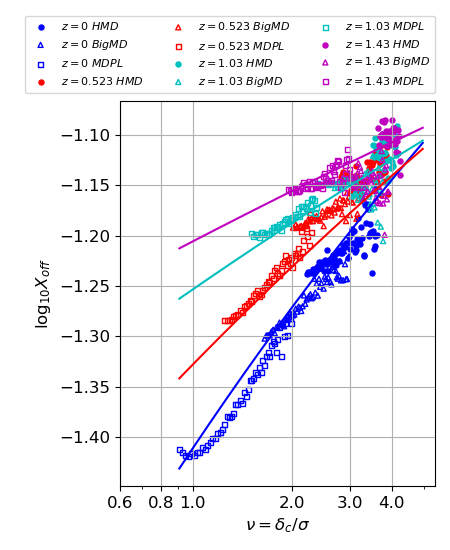
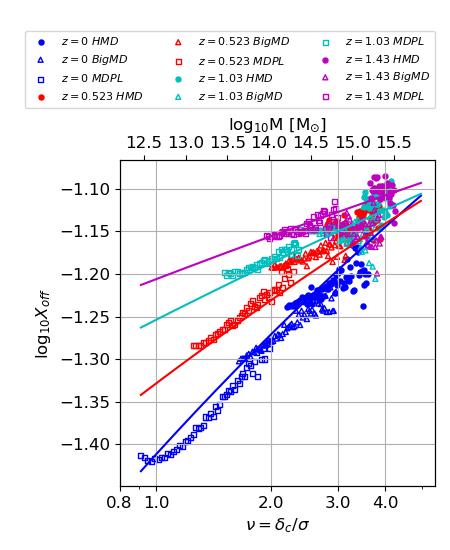
adding examples of mass-sigma conversions

diff --git a/mass_sigma.py b/mass_sigma.py
@@ -1,0 +1,106 @@
+from astropy.table import Table, Column
+#from astropy_healpix import healpy
+import sys
+import os, glob
+import time
+from astropy.cosmology import FlatLambdaCDM
+import matplotlib.pyplot as plt
+from matplotlib.ticker import ScalarFormatter
+import astropy.units as u
+import astropy.constants as cc
+import astropy.io.fits as fits
+import scipy
+from scipy.stats import chi2
+from scipy.special import erf
+from scipy.stats import norm
+from scipy.interpolate import interp2d
+from scipy.interpolate import interp1d
+from scipy.stats import scoreatpercentile
+import h5py
+import numpy as np
+from colossus.cosmology import cosmology
+from colossus.lss import mass_function as mf
+from colossus.lss import peaks
+from sklearn import mixture
+from scipy import integrate
+from mpl_toolkits.mplot3d import Axes3D
+from matplotlib import cm
+from scipy.optimize import curve_fit
+import ultranest
+from ultranest.plot import cornerplot
+import corner
+
+
+cosmo = cosmology.setCosmology('multidark-planck')  
+
+peak_bins = np.arange(0.7,5.,0.02)
+peak_array = (peak_bins[:-1]+peak_bins[1:])/2.
+
+h=cosmo.Hz(z=0)/100
+dc0 = peaks.collapseOverdensity(z = 0)
+
+sigma = dc0/peak_array
+
+log10_sigma = np.log10(1/sigma)
+
+def Mass_sigma(x):
+    r=cosmo.sigma(x,z=0,inverse=True)
+    M=peaks.lagrangianM(r)/h
+    return np.log10(M)
+
+def Mass_peak(x):
+    r=cosmo.sigma(dc0/x,z=0,inverse=True)
+    M=peaks.lagrangianM(r)/h
+    return np.log10(M)
+
+def Mass_log10sigma(x):
+    r=cosmo.sigma(1/10**x,z=0,inverse=True)
+    M=peaks.lagrangianM(r)/h
+    return np.log10(M)
+
+outfig = os.path.join('figures','Mass_sigma_relations.png')
+fig = plt.figure(figsize=(18,6))
+gs = fig.add_gridspec(1,3)
+ax1 = fig.add_subplot(gs[0,0])
+ax2 = fig.add_subplot(gs[0,1])
+ax3 = fig.add_subplot(gs[0,2])
+
+ax1.plot(sigma, Mass_sigma(sigma), lw=5)
+ax2.plot(peak_array, Mass_peak(peak_array), lw=5)
+ax3.plot(log10_sigma, Mass_log10sigma(log10_sigma), lw=5)
+
+ax1.grid(True)
+ax2.grid(True)
+ax3.grid(True)
+
+#ax1.set_xticks(np.array([0.5,0.75,1.0,1.25,1.5,1.75,2.0,2.5]))
+#ax2.set_xticks(np.array([1.0,1.5,2.0,2.5,3.0,3.5,4.0,4.5,5.0]))
+#ax3.set_xticks(np.array([-0.4,-0.35,-0.3,-0.25,-0.2,-0.15,-0.1,-0.05,0,0.05,0.1,0.15,0.2,0.25,0.3,0.35,0.4,0.45]))
+
+ax1.set_yticks(np.array([12.0,12.5,13.0,13.5,14.0,14.5,15.0,15.5,16.0]))
+ax2.set_yticks(np.array([12.0,12.5,13.0,13.5,14.0,14.5,15.0,15.5,16.0]))
+ax3.set_yticks(np.array([12.0,12.5,13.0,13.5,14.0,14.5,15.0,15.5,16.0]))
+
+ax2.set_xscale('log')
+ax2.xaxis.set_major_formatter(ScalarFormatter())
+ax2.ticklabel_format(useOffset=False, style='plain')
+ax2.set_xticks([0.8,1,2,3,4])
+
+ax1.tick_params(labelsize=20)
+ax2.tick_params(labelsize=20)
+ax3.tick_params(labelsize=20)
+
+ax1.set_xlabel(r'$\sigma$', fontsize=20)
+ax2.set_xlabel(r'$\nu = dc/\sigma$', fontsize=20)
+ax3.set_xlabel(r'$\log_{10}\sigma^{-1}$', fontsize=20)
+
+ax1.set_ylabel(r'Mass [M$_{\odot}$]', fontsize=20)
+ax2.set_ylabel(r'Mass [M$_{\odot}$]', fontsize=20)
+ax3.set_ylabel(r'Mass [M$_{\odot}$]', fontsize=20)
+
+plt.tight_layout()
+fig.savefig(outfig, overwrite=True)
+
+print('done!')
+
+

diff --git a/Rvir/xoff/xoff_sigma_relation_Rvir.py b/Rvir/xoff/xoff_sigma_relation_Rvir.py
@@ -321,8 +321,9 @@ t1.write(outt1,overwrite=True)
 
 
 h=cosmo.Hz(z=0)/100
-def Mass_sigma(x):
-    r=cosmo.sigma(1.68/x,z=0,inverse=True)
+dc0 = peaks.collapseOverdensity(z = 0)
+def Mass_peak(x):
+    r=cosmo.sigma(dc0/x,z=0,inverse=True)
     M=peaks.lagrangianM(r)/h
     return np.log10(M)
 
@@ -333,7 +334,7 @@ def Xoff_log(x):
 
 ax1.set_xscale('log')
 #ax1.set_yscale('log')
-ax1.set_xticks([0.6,0.8,1,2,3,4])
+ax1.set_xticks([0.8,1,2,3,4])
 #ax1.set_yticks([1.0,1.2,1.4,1.6,1.8,2.0,2.2,2.4])
 #ax1.set_ylim(1e-3,0.7)
 
@@ -341,9 +342,14 @@ ax1.xaxis.set_major_formatter(ScalarFormatter())
 ax1.yaxis.set_major_formatter(ScalarFormatter())
 ax1.ticklabel_format(axis='both', style='plain')
 
-#ax1_sec = ax1.twiny()
-#xmin,xmax=ax1.get_xlim()
-#ax1_sec.set_xlim((Mass_sigma(xmin),Mass_sigma(xmax)))
+ax1_sec = ax1.twiny()
+new_tick_locations = np.array([12.5,13.0,13.5,14.0, 14.5, 15.0, 15.5])
+xmin,xmax=ax1.get_xlim()
+ax1_sec.set_xlim(Mass_peak(xmin),Mass_peak(xmax))
+print(xmin,xmax)
+print(Mass_peak(xmin),Mass_peak(xmax))
+#ax1_sec.set_xscale('log')
+ax1_sec.set_xticks(new_tick_locations)
 #ax1_sec.plot([],[])
 #ax1_sec.set_xlabel(r'$\log_{10}M\ [M_{\odot}]$', fontsize=20, labelpad=15)
 #ax1_sec.set_xscale('log')
@@ -367,11 +373,13 @@ ax1.ticklabel_format(axis='both', style='plain')
 
 #ax1_sec.ticklabel_format(axis='x', style='plain')
 #ax1_sec2.ticklabel_format(axis='y', style='plain')
-ax1.legend(fontsize=8,bbox_to_anchor=(-0.3, 1.02, 1.3, .33), loc='lower left', ncol=3, mode="expand", borderaxespad=0.)
+ax1.legend(fontsize=8,bbox_to_anchor=(-0.3, 1.16, 1.3, .33), loc='lower left', ncol=3, mode="expand", borderaxespad=0.)
 ax1.set_xlabel(r'$\nu = \delta_c/\sigma$', fontsize=12)
 ax1.set_ylabel(r'$\log_{10}X_{off}$', fontsize=12)
+ax1_sec.set_xlabel(r'$\log_{10}$M [M$_{\odot}$]', fontsize=12)
 #ax1_sec2.set_ylabel(r'$X_{off}\ [kpc]$', fontsize=20, labelpad=15)
 ax1.tick_params(labelsize=12)
+ax1_sec.tick_params(labelsize=12)
 #ax1_sec.tick_params(labelsize=15,labelleft=False,labelbottom=False,labelright=False)
 #ax1_sec2.tick_params(labelsize=15, labeltop = False, labelbottom = False, labelleft = False)
 ax1.grid(True)

diff --git a/physical/mean_relations/pdf_conc_fix_mass.py b/physical/mean_relations/pdf_conc_fix_mass.py
@@ -147,7 +147,7 @@ def get_pdf_conc(x):
     pdf = pdf*diff_bins_conc
 
     N = np.histogram(x,bins=edges_conc)[0]
-    err_ = np.sqrt(1/N)*pdf#*3
+    err_ = np.sqrt(1/N)*pdf*2
     err = 1/np.log(10)*err_/pdf
     pdf = np.log10(pdf)
     
@@ -196,10 +196,10 @@ ax1.plot(bins_conc,modified_sch_list([bins_conc,sig_bins[5]],*popt_pdf_conc_list
 ax1.set_ylim(bottom=-2.5,top=-1.2)
 ax1.tick_params(labelsize=12)
 ax1.grid(True)
-ax1.legend(fontsize=10,bbox_to_anchor=(0, 1.1, 2.15, .3), loc='lower left', ncol=3, mode="expand", borderaxespad=0.)
+ax1.legend(fontsize=10,bbox_to_anchor=(0, 1.03, 2.05, .3), loc='lower left', ncol=3, mode="expand", borderaxespad=0.)
 #ax1.set_xlabel(r'$c = R_{vir}/R_s$',fontsize=12)
 ax1.set_ylabel(r'$\log_{10}P(c)+C_0$',fontsize=12)
-ax1.set_title('z = 0.00', fontsize=12)
+ax1.text(9,-1.4,'z = 0.00', fontsize=12, bbox=dict(facecolor='white'))
 
 
 
@@ -267,7 +267,7 @@ ax2.tick_params(labelsize=12)
 ax2.grid(True)
 #ax2.set_xlabel(r'$c = R_{vir}/R_s$',fontsize=12)
 #ax2.set_ylabel(r'$\log_{10}P(c)+C_0$',fontsize=12)
-ax2.set_title('z = 0.52', fontsize=12)
+ax2.text(9,-1.4,'z = 0.52', fontsize=12, bbox=dict(facecolor='white'))
 
 
 ############################### z=1.03 ###############################################
@@ -334,7 +334,7 @@ ax3.tick_params(labelsize=12)
 ax3.grid(True)
 ax3.set_xlabel(r'$c = R_{vir}/R_s$',fontsize=12)
 ax3.set_ylabel(r'$\log_{10}P(c)+C_0$',fontsize=12)
-ax3.set_title('z = 1.03', fontsize=12)
+ax3.text(9,-1.4,'z = 1.03', fontsize=12, bbox=dict(facecolor='white'))
 
 
 
@@ -401,10 +401,13 @@ ax4.set_ylim(bottom=-2.5,top=-1.2)
 ax4.tick_params(labelsize=12)
 ax4.grid(True)
 ax4.set_xlabel(r'$c = R_{vir}/R_s$',fontsize=12)
-ax4.set_title('z = 1.43', fontsize=12)
+ax4.text(9,-1.4,'z = 1.43', fontsize=12, bbox=dict(facecolor='white'))
 
 
-
+plt.setp(ax1.get_xticklabels(), visible=False)
+plt.setp(ax2.get_xticklabels(), visible=False)
+plt.setp(ax2.get_yticklabels(), visible=False)
+plt.setp(ax4.get_yticklabels(), visible=False)
 
 
 plt.tight_layout()

diff --git a/physical/mean_relations/relations_conc.py b/physical/mean_relations/relations_conc.py
@@ -309,21 +309,20 @@ ax0.plot(x_klypin_z15,y_klypin_z15,label=r'Klypin16 z=1.5',ls='dashed')
 ax0.fill_between(x_white,y_white_low,y_white_up,label='Wang19', alpha=0.5)
 
 h=cosmo.Hz(z=0)/100
-def Mass_sigma(x):
-    r=cosmo.sigma(1.68/x,z=0,inverse=True)
+dc0 = peaks.collapseOverdensity(z = 0)
+def Mass_peak(x):
+    r=cosmo.sigma(dc0/x,z=0,inverse=True)
     M=peaks.lagrangianM(r)/h
     return np.log10(M)
 
-def Xoff_log(x):
-    y = 10**x
-    return y/h
 
 ax0.set_ylabel(r'$conc$', fontsize=12)
 ax0.set_xlabel(r'$\nu = \delta_c/\sigma$', fontsize=12)
 ax0.grid(True)
+ax0.set_xlim(left=0.8)
 ax0.set_xscale('log')
 ax0.set_yscale('log')
-ax0.set_xticks([0.6,0.8,1,2,3,4])
+ax0.set_xticks([0.8,1,2,3,4])
 ax0.set_yticks([3,4,5,6,7,8,9,10,11])
 ax0.set_ylim(3.0,11)
 
@@ -331,8 +330,19 @@ ax0.xaxis.set_major_formatter(ScalarFormatter())
 ax0.yaxis.set_major_formatter(ScalarFormatter())
 ax0.ticklabel_format(axis='both', style='plain')
 
-ax0.legend(fontsize=8,bbox_to_anchor=(-0.2, 1.05, 1.2, .3), loc='lower left', ncol=3, mode="expand", borderaxespad=0.)
+ax0_sec = ax0.twiny()
+new_tick_locations = np.array([12.5,13.0,13.5,14.0, 14.5, 15.0, 15.5])
+xmin,xmax=ax0.get_xlim()
+ax0_sec.set_xlim(Mass_peak(xmin),Mass_peak(xmax))
+print(xmin,xmax)
+print(Mass_peak(xmin),Mass_peak(xmax))
+#ax0_sec.set_xscale('log')
+ax0_sec.set_xticks(new_tick_locations)
+
+ax0.legend(fontsize=8,bbox_to_anchor=(-0.2, 1.16, 1.2, .3), loc='lower left', ncol=3, mode="expand", borderaxespad=0.)
 ax0.tick_params(labelsize=12)
+ax0_sec.set_xlabel(r'$\log_{10}$M [M$_{\odot}$]', fontsize=12)
+ax0_sec.tick_params(labelsize=12)
 fig0.tight_layout()
 outfi0 = os.path.join(this_dir,'figures','relation_c_sigma.png')
 os.makedirs(os.path.dirname(outfi0), exist_ok=True)

diff --git a/physical/mean_relations/relations_spin.py b/physical/mean_relations/relations_spin.py
@@ -291,13 +291,34 @@ outt2 = os.path.join(this_dir,'tables','spin_sigma_params.fit')
 t2.write(outt2,overwrite=True)
 
 h=cosmo.Hz(z=0)/100
+dc0 = peaks.collapseOverdensity(z = 0)
+def Mass_peak(x):
+    r=cosmo.sigma(dc0/x,z=0,inverse=True)
+    M=peaks.lagrangianM(r)/h
+    return np.log10(M)
+
+#ax2.set_xscale('log')
+ax2.xaxis.set_major_formatter(ScalarFormatter())
+ax2.yaxis.set_major_formatter(ScalarFormatter())
+ax2.ticklabel_format(axis='both', style='plain')
+ax2.set_xticks([0.8,1,2,3,4])
+ax2_sec = ax2.twiny()
+new_tick_locations = np.array([12.5,13.0,13.5,14.0, 14.5, 15.0, 15.5])
+xmin,xmax=ax2.get_xlim()
+print(xmin,xmax)
+print(Mass_peak(xmin),Mass_peak(xmax))
+ax2_sec.set_xlim(Mass_peak(xmin),Mass_peak(xmax))
+#ax2_sec.set_xscale('log')
+ax2_sec.set_xticks(new_tick_locations)
 
 ax2.set_ylabel(r'$\lambda$', fontsize=12)
 ax2.set_xlabel(r'$\nu = \delta_c/\sigma$', fontsize=12)
+ax2_sec.set_xlabel(r'$\log_{10}$M [M$_{\odot}$]', fontsize=12)
+ax2_sec.tick_params(labelsize=12)
 ax2.grid(True)
 ax2.set_xlim(right=4.2)
 ax2.set_ylim(0.02)
-ax2.legend(fontsize=8,bbox_to_anchor=(-0.3, 1.02, 1.3, .33), loc='lower left', ncol=3, mode="expand", borderaxespad=0.)
+ax2.legend(fontsize=8,bbox_to_anchor=(-0.3, 1.16, 1.3, .33), loc='lower left', ncol=3, mode="expand", borderaxespad=0.)
 ax2.tick_params(labelsize=12)
 fig2.tight_layout()
 outfig2 = os.path.join(this_dir,'figures','relations_spin_sigma.png')
